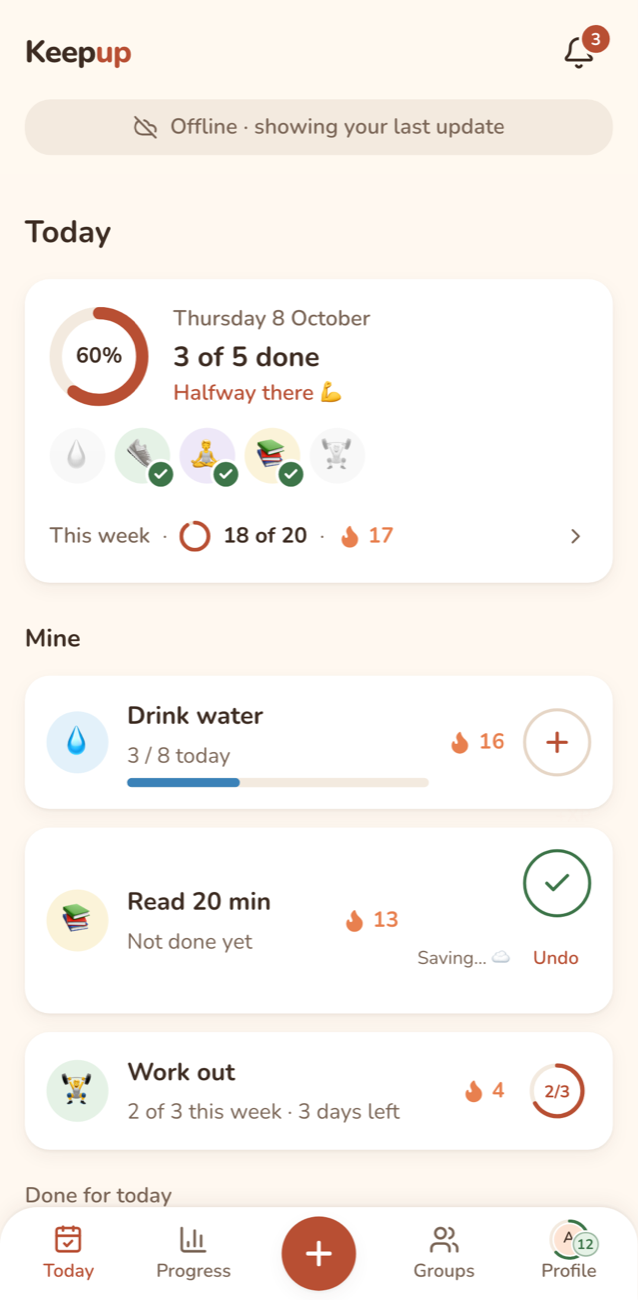
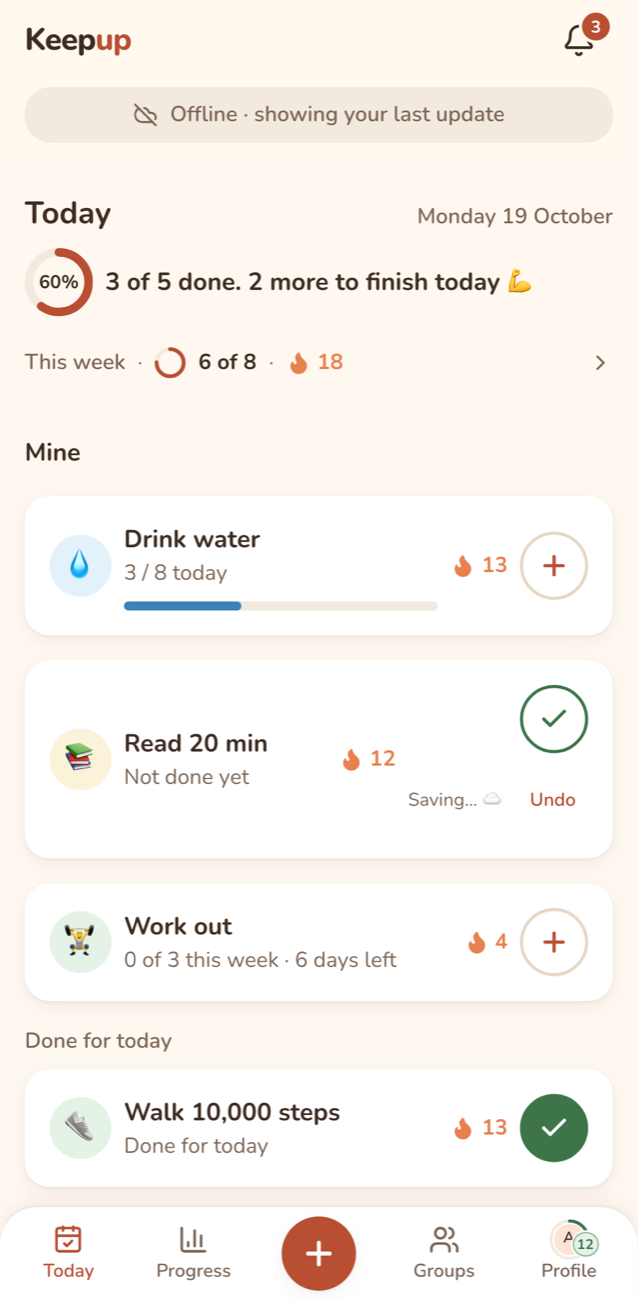
docs(readme): regenerate screenshots after the design pass, add the start page
The screenshot spec follows the new UI: bidi-isolated accessible names,
Today shot right after a check-in (toast with Undo), Settings waits for
Saved ✓, and a signed-out landing shot.

diff --git a/scripts/readme/screenshots.spec.ts b/scripts/readme/screenshots.spec.ts
@@ -7,6 +7,8 @@ import { createHabit } from "../../e2e/helpers/habits";
 // README screenshots (docs/screenshots). Local stack only: seeds a month of history straight into the
 // database (triggers off), like e2e/helpers do. Run: npm run readme:screenshots
 const OUT = "docs/screenshots";
+// Names in accessible labels come wrapped in Unicode isolates (FSI … PDI), as in e2e/kids.spec.ts.
+const iso = (s: string) => `\u2068${s}\u2069`;
 
 function seedHistory(email: string): void {
   if (!/^[\w.+-]+@[\w.-]+$/.test(email)) throw new Error(`Not an email: ${email}`);
@@ -47,6 +49,12 @@ select private.backfill_badges();`;
 test("README screenshots", async ({ page, context }) => {
   test.setTimeout(120_000);
   const email = uniqueEmail("readme");
+
+  // The landing page, signed out: the pitch and one call to action.
+  await page.goto("/");
+  await expect(page.getByRole("link", { name: "Start your first streak" })).toBeVisible();
+  await page.screenshot({ path: `${OUT}/landing.png` });
+
   await signUp(page, email);
   await completeOnboarding(page, { name: "Ana" });
   for (const template of ["Drink water", "Walk 10,000 steps", "Meditate", "Read 20 min", "Work out"]) {
@@ -73,15 +81,17 @@ test("README screenshots", async ({ page, context }) => {
     await expect(dialog).toBeHidden();
   }
 
-  // Today, half done.
+  // Today, half done, right after a check-in: the summary line and the toast with Undo.
   await page.goto("/today");
-  for (let i = 0; i < 3; i++) await page.getByRole("button", { name: "Check in: Drink water" }).click();
-  await page.getByRole("button", { name: "Check in: Walk 10,000 steps" }).click();
-  await expect(page.getByRole("button", { name: "Done: Walk 10,000 steps" })).toBeVisible();
-  await page.getByRole("button", { name: "Check in: Meditate" }).click();
-  await expect(page.getByRole("button", { name: "Done: Meditate" })).toBeVisible();
-  await page.getByRole("button", { name: /^Check in for Mary: / }).first().click();
+  await page.getByRole("button", { name: /^Check in for \u2068Mary\u2069: / }).first().click();
+  for (let i = 0; i < 3; i++) await page.getByRole("button", { name: `Check in: ${iso("Drink water")}` }).click();
+  await page.getByRole("button", { name: `Check in: ${iso("Walk 10,000 steps")}` }).click();
+  await expect(page.getByRole("button", { name: `Done: ${iso("Walk 10,000 steps")}` })).toBeVisible();
   await page.goto("/today");
+  await page.getByRole("button", { name: `Check in: ${iso("Meditate")}` }).click();
+  await expect(page.getByRole("button", { name: `Done: ${iso("Meditate")}` })).toBeVisible();
+  await expect(page.locator("[data-toaster]").getByRole("button", { name: "Undo", exact: true })).toBeVisible();
+  await page.waitForTimeout(300); // the toast's slide-in
   await page.screenshot({ path: `${OUT}/today.png` });
 
   await page.goto("/progress");
@@ -104,8 +114,8 @@ test("README screenshots", async ({ page, context }) => {
   await page.screenshot({ path: `${OUT}/new-habit.png` });
 
   await page.goto(kidPage);
-  await page.getByRole("link", { name: "Open Mary's view" }).click();
-  await expect(page.getByRole("button", { name: "Hold to exit Mary's view" })).toBeVisible();
+  await page.getByRole("main").getByRole("link", { name: `Open ${iso("Mary")}'s view` }).click();
+  await expect(page.getByRole("button", { name: `Hold to exit ${iso("Mary")}'s view` })).toBeVisible();
   // Finish two habits, so the open ones stay on top and the done ones sink to the bottom.
   for (const title of ["Read a book together", "Tidy my toys"]) {
     await page.locator("button:not([disabled])").filter({ hasText: title }).first().click();
@@ -164,7 +174,7 @@ test("README screenshots", async ({ page, context }) => {
   await expect(section.getByText(/^Reminders are on for this device/)).toBeVisible();
   await section.getByRole("group", { name: "Nudges" }).getByRole("radio", { name: "Inbox only" }).check();
   await section.getByRole("group", { name: "Group activity" }).getByRole("radio", { name: "Sound" }).check();
-  await page.waitForLoadState("networkidle");
+  await expect(section.getByRole("status").filter({ hasText: "Saved ✓" }).first()).toBeVisible();
   await section.getByText("What to send").scrollIntoViewIfNeeded();
   await page.waitForTimeout(500);
   await page.screenshot({ path: `${OUT}/notifications.png` });
@@ -173,13 +183,13 @@ test("README screenshots", async ({ page, context }) => {
   await page.goto("/today");
   await expect.poll(() => page.evaluate(async () => (await navigator.serviceWorker.ready, navigator.serviceWorker.controller !== null))).toBe(true);
   await page.reload();
-  await expect(page.getByRole("button", { name: "Check in: Read 20 min" })).toBeVisible();
+  await expect(page.getByRole("button", { name: `Check in: ${iso("Read 20 min")}` })).toBeVisible();
   await expect.poll(() => page.evaluate(async () => {
     const hit = await caches.match("/today");
-    return Boolean(hit) && (await hit!.text()).includes("Check in: Read 20 min");
+    return Boolean(hit) && (await hit!.text()).includes("Read 20 min");
   })).toBe(true);
   await context.setOffline(true);
-  await page.getByRole("button", { name: "Check in: Read 20 min" }).click();
+  await page.getByRole("button", { name: `Check in: ${iso("Read 20 min")}` }).click();
   await expect(page.getByText("Saving… ☁")).toBeVisible();
   await expect(page.getByText("Offline · showing your last update")).toBeVisible();
   await page.waitForTimeout(800);
